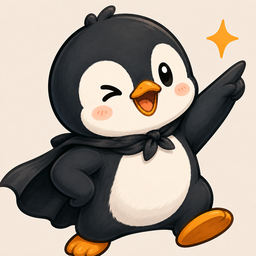
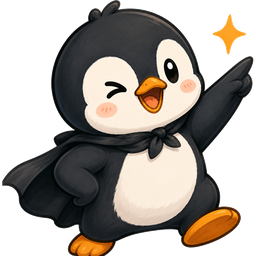
fix(ui): transparent tight-cropped header mascot at h-8

diff --git a/src/components/layout/Header.tsx b/src/components/layout/Header.tsx
@@ -60,7 +60,7 @@ const PenguinBrand = memo(function PenguinBrand() {
       <img
         src="/penguin.png"
         alt="Penguin"
-        className={cn("h-6 shrink-0 object-contain", isLunch && "animate-bounce")}
+        className={cn("h-8 shrink-0 object-contain", isLunch && "animate-bounce")}
         draggable={false}
       />
       <span
